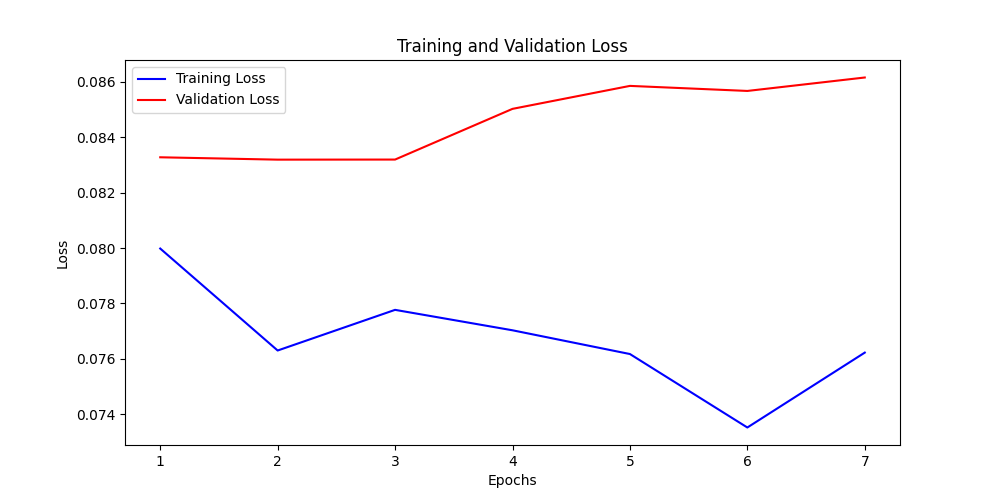
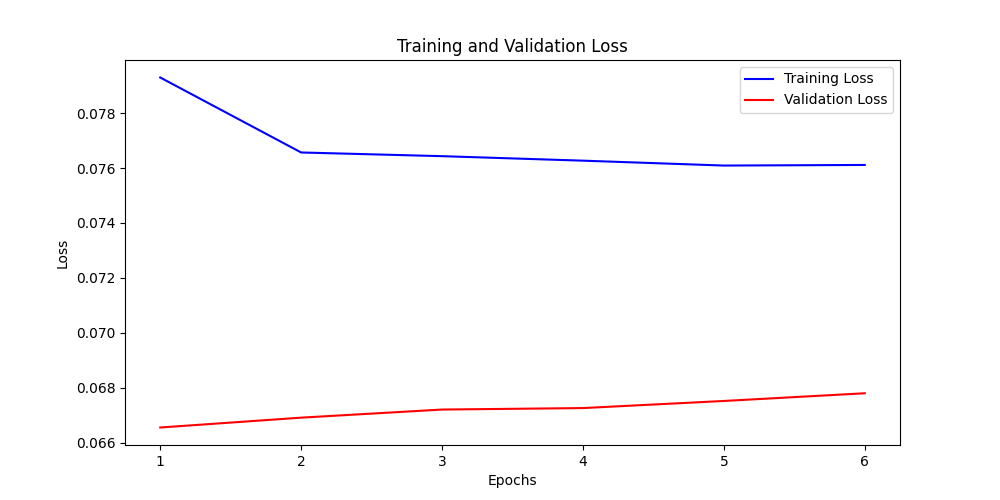
underfit

diff --git a/train.py b/train.py
@@ -21,7 +21,6 @@ class ToTensorRGB(object):
         # Convert from numpy to tensor and normalize
         return torch.from_numpy(image.transpose((2, 0, 1))).float() / 255.0
 
-
 class EyeTrackerDataset(Dataset):
     def __init__(self, csv_file, transform=None):
         self.data = pd.read_csv(csv_file)
@@ -125,12 +124,11 @@ def train(model, train_loader, val_loader, criterion, optimizer, num_epochs, dev
     plt.ylabel('Loss')
     plt.legend()
     plt.savefig('loss_plot.png')
-    plt.show()
     
     return train_losses, val_losses
 
 
-def visualize_predictions(model, val_loader, device):
+def visualize_predictions(model, loader, device, name):
     """
     Visualize the predicted vs actual gaze points on a 2D plane.
     
@@ -148,7 +146,7 @@ def visualize_predictions(model, val_loader, device):
     
     # Get predictions from validation set
     with torch.no_grad():
-        for images, targets in tqdm(val_loader, desc="Generating predictions"):
+        for images, targets in tqdm(loader, desc=f"Generating predictions for {name}"):
             images = images.to(device)
             outputs = model(images)
             
@@ -182,9 +180,7 @@ def visualize_predictions(model, val_loader, device):
     plt.ylabel('Y Coordinate')
     plt.legend()
     plt.grid(alpha=0.3)
-    plt.savefig('prediction_visualization.png')
-    plt.show()
-
+    plt.savefig(f'prediction_visualization_{name}.png')
 
 def main():
     # Set device
@@ -213,10 +209,17 @@ def main():
     train_size = int(0.8 * len(dataset))
     val_size = len(dataset) - train_size
     train_dataset, val_dataset = random_split(dataset, [train_size, val_size])
+
+    # Print dataset size
+    print(f"Train dataset size: {len(train_dataset)}")
+    print(f"Validation dataset size: {len(val_dataset)}")
+
+    # Print first sample of train_dataset
+    print(train_dataset[0])
     
     # Create data loaders - set num_workers=0 to avoid multiprocessing issues
-    train_loader = DataLoader(train_dataset, batch_size=16, shuffle=True, num_workers=0)
-    val_loader = DataLoader(val_dataset, batch_size=16, shuffle=False, num_workers=0)
+    train_loader = DataLoader(train_dataset, batch_size=4, shuffle=True, num_workers=0)
+    val_loader = DataLoader(val_dataset, batch_size=4, shuffle=False, num_workers=0)
     
     # Initialize model
     model = Model()
@@ -227,7 +230,7 @@ def main():
     
     # Train the model with early stopping
     num_epochs = 50
-    train_losses, val_losses = train(model, train_loader, val_loader, criterion, optimizer, num_epochs, device, patience=5)
+    train_losses, val_losses = train(model, train_loader, val_loader, criterion, optimizer, num_epochs, device, patience=25)
     
     # Load the best model for visualization
     model = Model()
@@ -235,7 +238,8 @@ def main():
     model.to(device)
     
     # Visualize predictions
-    visualize_predictions(model, val_loader, device)
+    visualize_predictions(model, train_loader, device, "train")
+    visualize_predictions(model, val_loader, device, "val")
     
     print("Training and visualization complete!")
 

diff --git a/model.py b/model.py
@@ -17,15 +17,10 @@ class Model(nn.Module):
             nn.ReLU(),
             nn.MaxPool2d(kernel_size=2, stride=2),
         )
-        self.pass_3 = nn.Sequential(
-            nn.Conv2d(64, 128, kernel_size=3, stride=1, padding=1),
-            nn.ReLU(),
-            nn.MaxPool2d(kernel_size=2, stride=2),
-        )
         # For 224x224 input, the feature map size after pass_3 will be 14x14
         self.fc = nn.Sequential(
             nn.Flatten(),
-            nn.Linear(128 * 14 * 14, 512),
+            nn.Linear(4 * 64 * 14 * 14, 512),
             nn.ReLU(),
             nn.Dropout(0.5),
             nn.Linear(512, 128),
@@ -37,7 +32,6 @@ class Model(nn.Module):
     def forward(self, x):
         x = self.pass_1(x)
         x = self.pass_2(x)
-        x = self.pass_3(x)
         x = self.fc(x)
         x = torch.sigmoid(x)  # Apply sigmoid to normalize output to [0,1]
         return x
